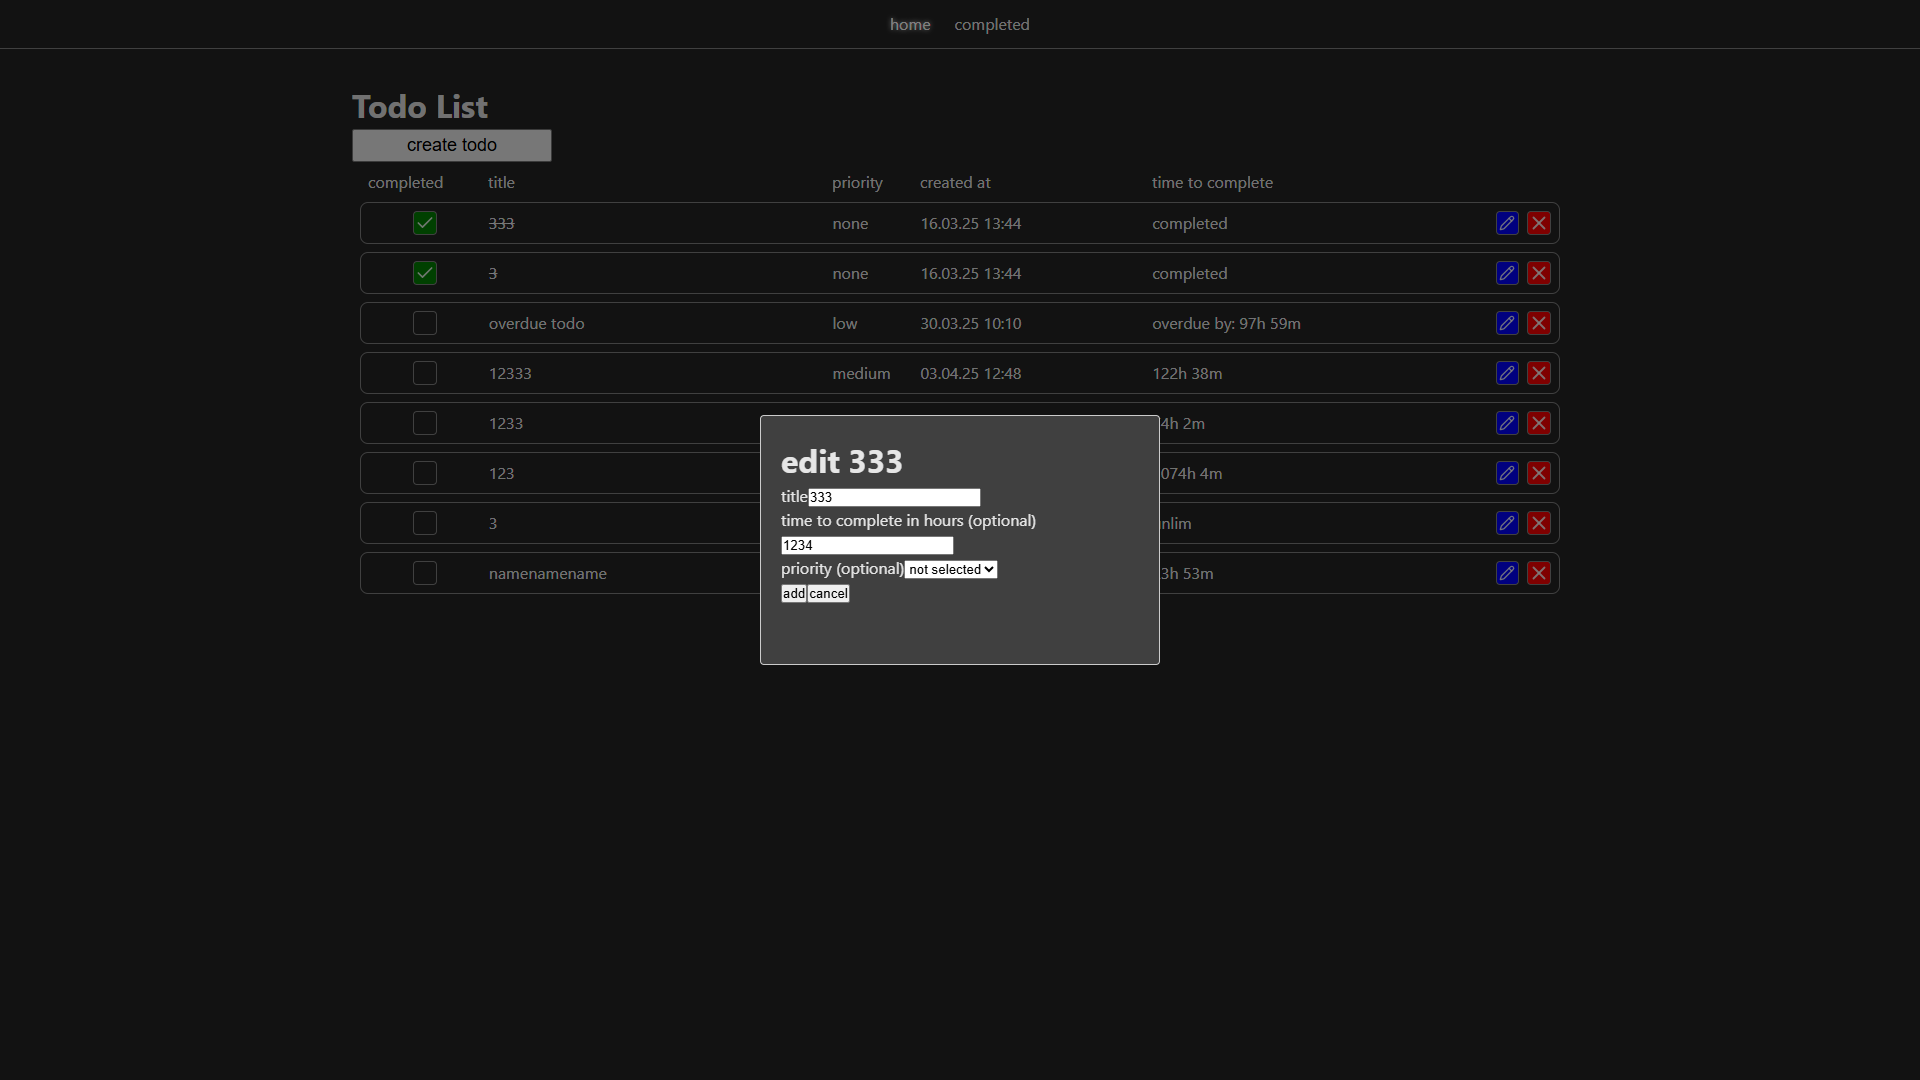
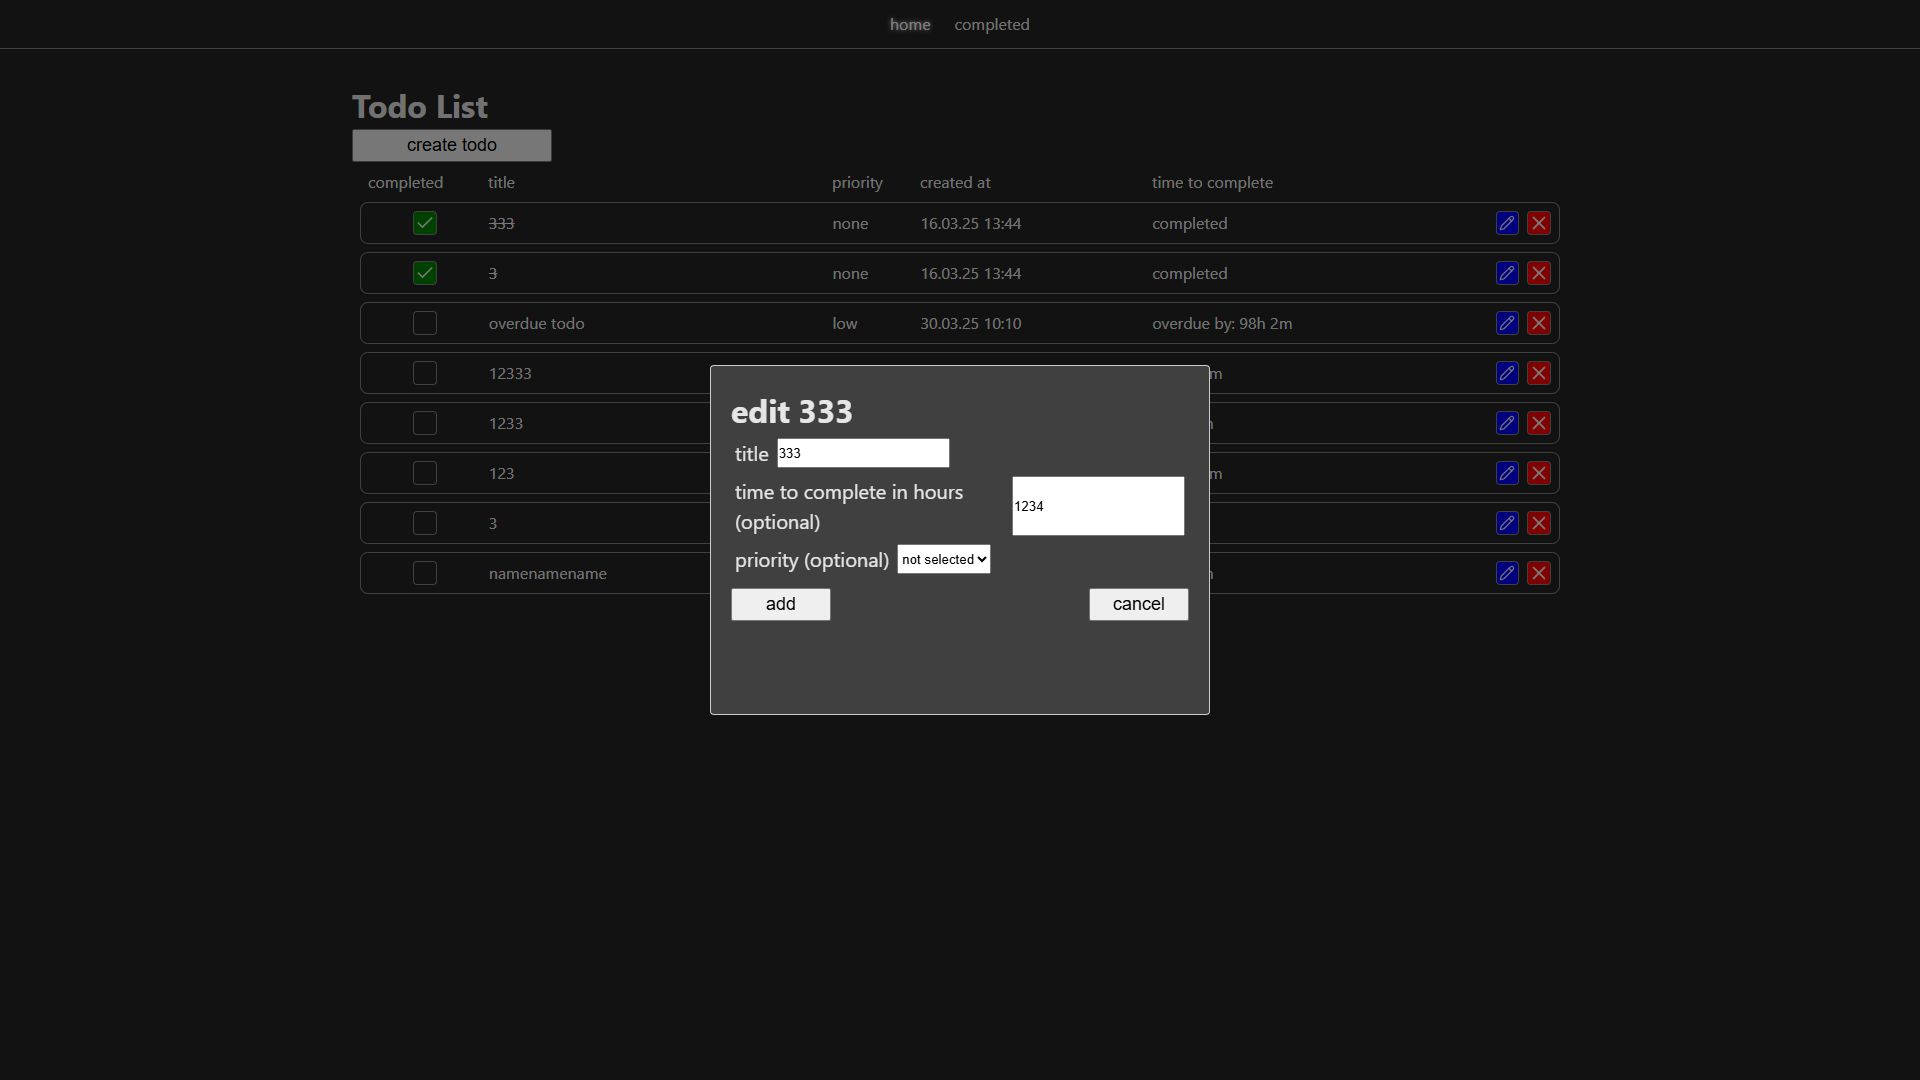
fixes + screens

Changed region(s): [[0.3438, 0.3361, 0.6562, 0.6722], [0.6562, 0.275, 0.6875, 0.3056]]

diff --git a/frontend/src/styles/todoList.module.scss b/frontend/src/styles/todoList.module.scss
@@ -92,3 +92,29 @@
     min-width: 80px;
   }
 }
+
+.form {
+  display: flex;
+  flex-direction: column;
+  font-size: 20px;
+  .block {
+    display: flex;
+    gap: 8px;
+    padding: 4px;
+  }
+  .buttons {
+    justify-content: space-between;
+    padding-top: 10px;
+    display: flex;
+    gap: 40px;
+    .but {
+      font-size: 18px;
+      width: 100px;
+      padding: 4px;
+    }
+  }
+
+  .error {
+    color: red;
+  }
+}

diff --git a/frontend/src/components/todoList.tsx b/frontend/src/components/todoList.tsx
@@ -223,9 +223,9 @@ const TodoItem: FC<{
           overlay: { backgroundColor: "rgba(0, 0, 0, 0.5)" },
           content: {
             padding: "20px",
-            width: "400px",
+            width: "500px",
             background: "#404040",
-            height: "250px",
+            height: "350px",
             margin: "auto",
           },
         }}
